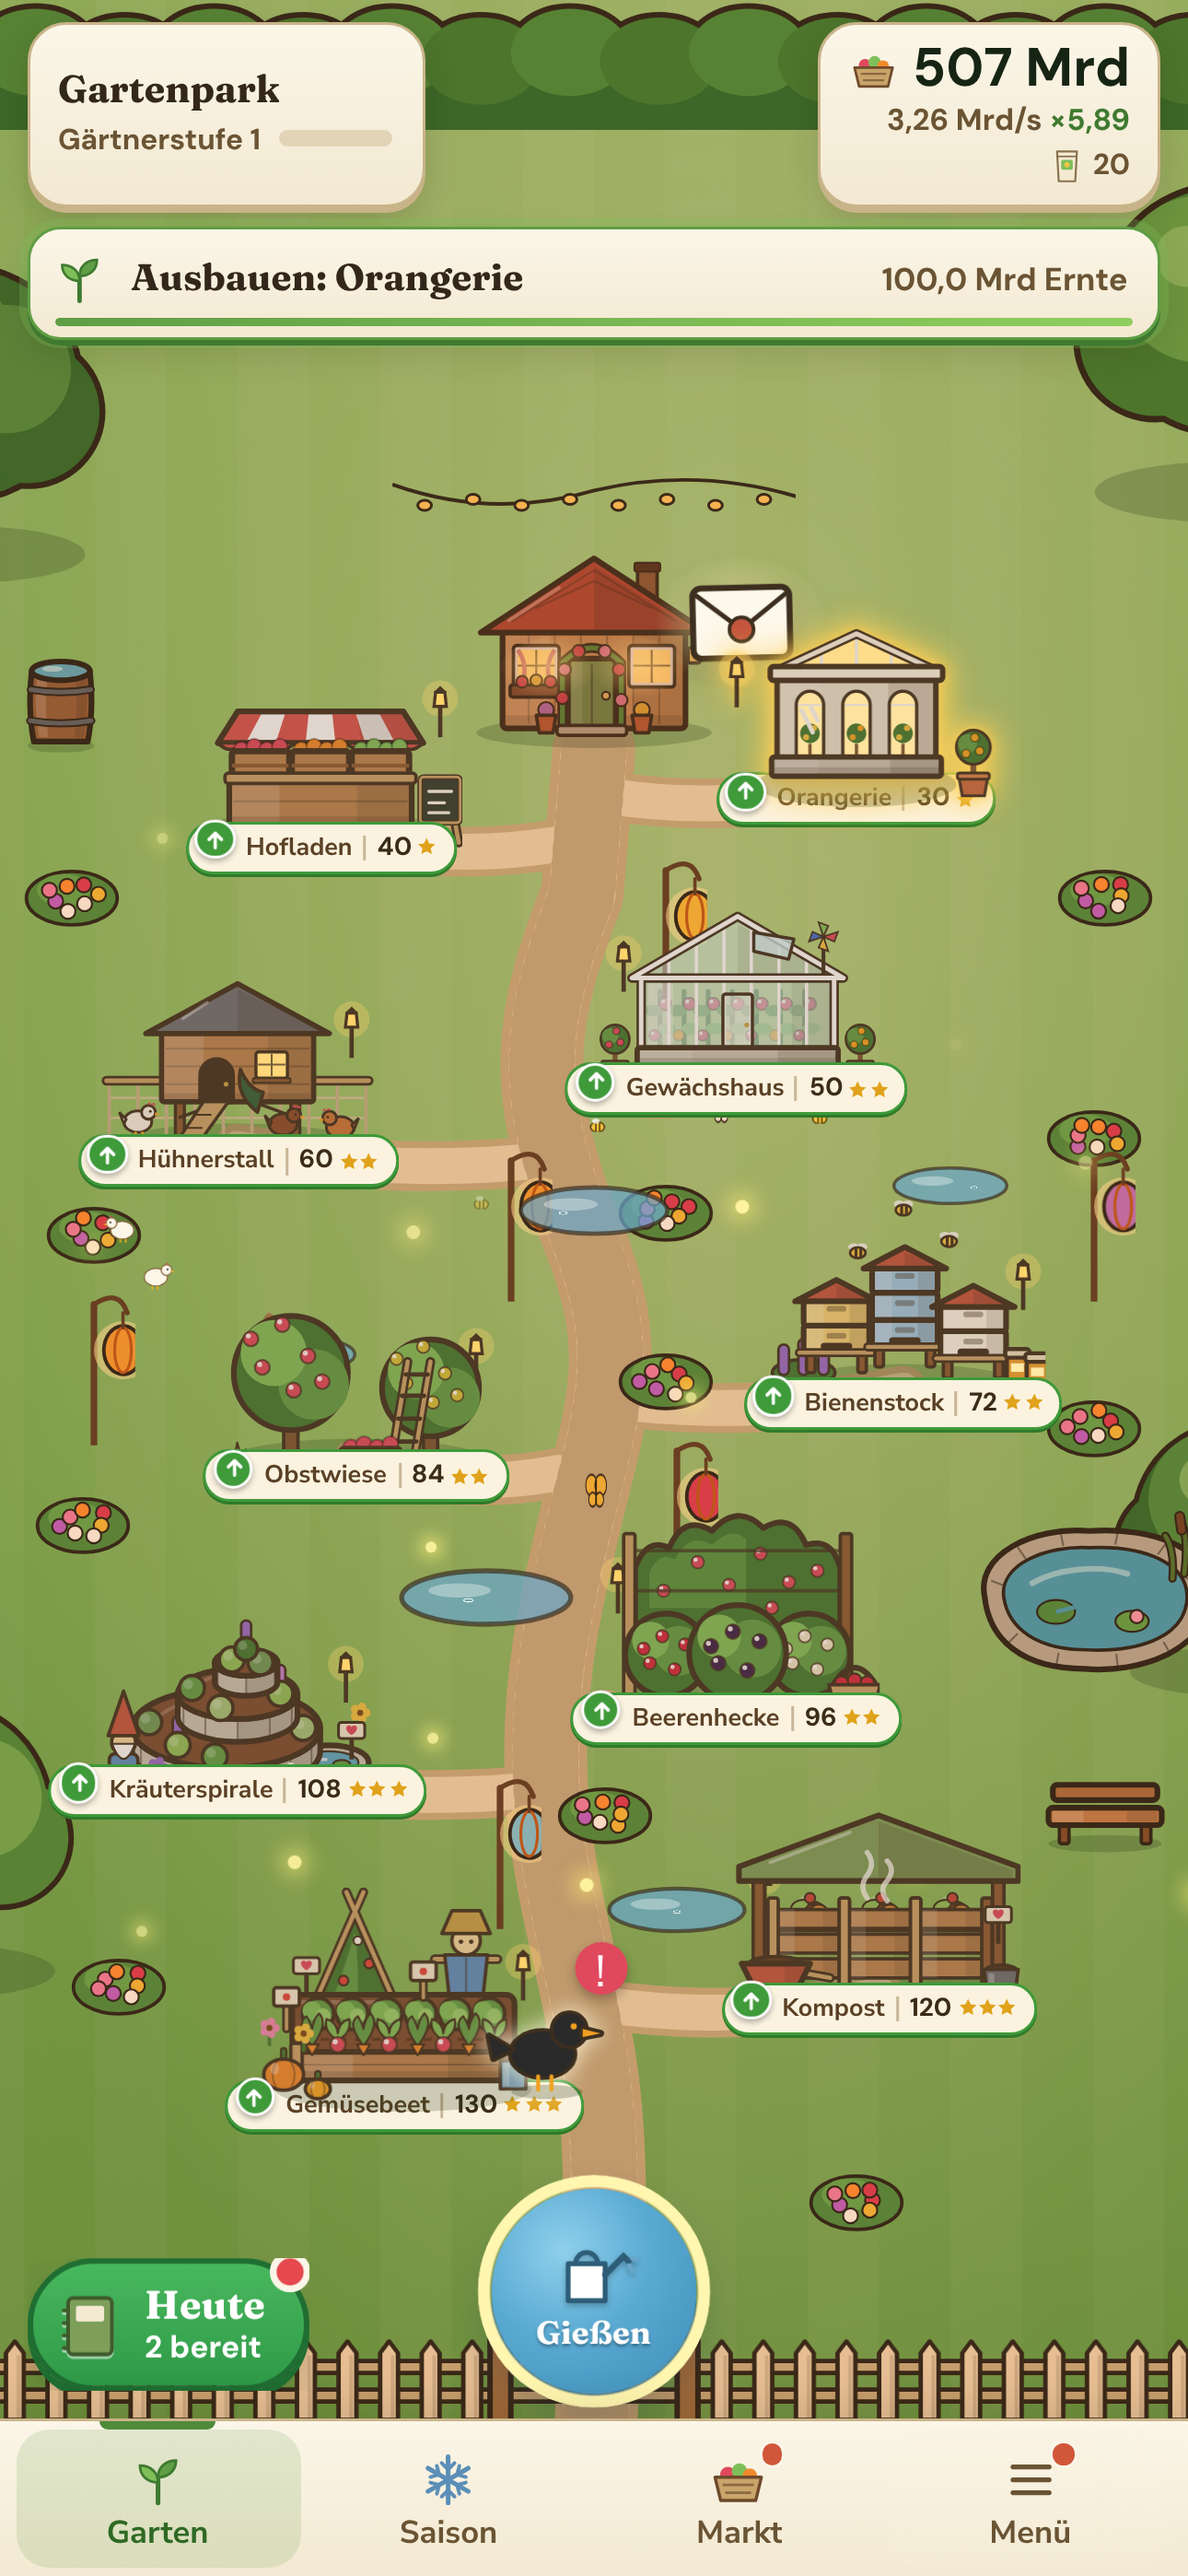
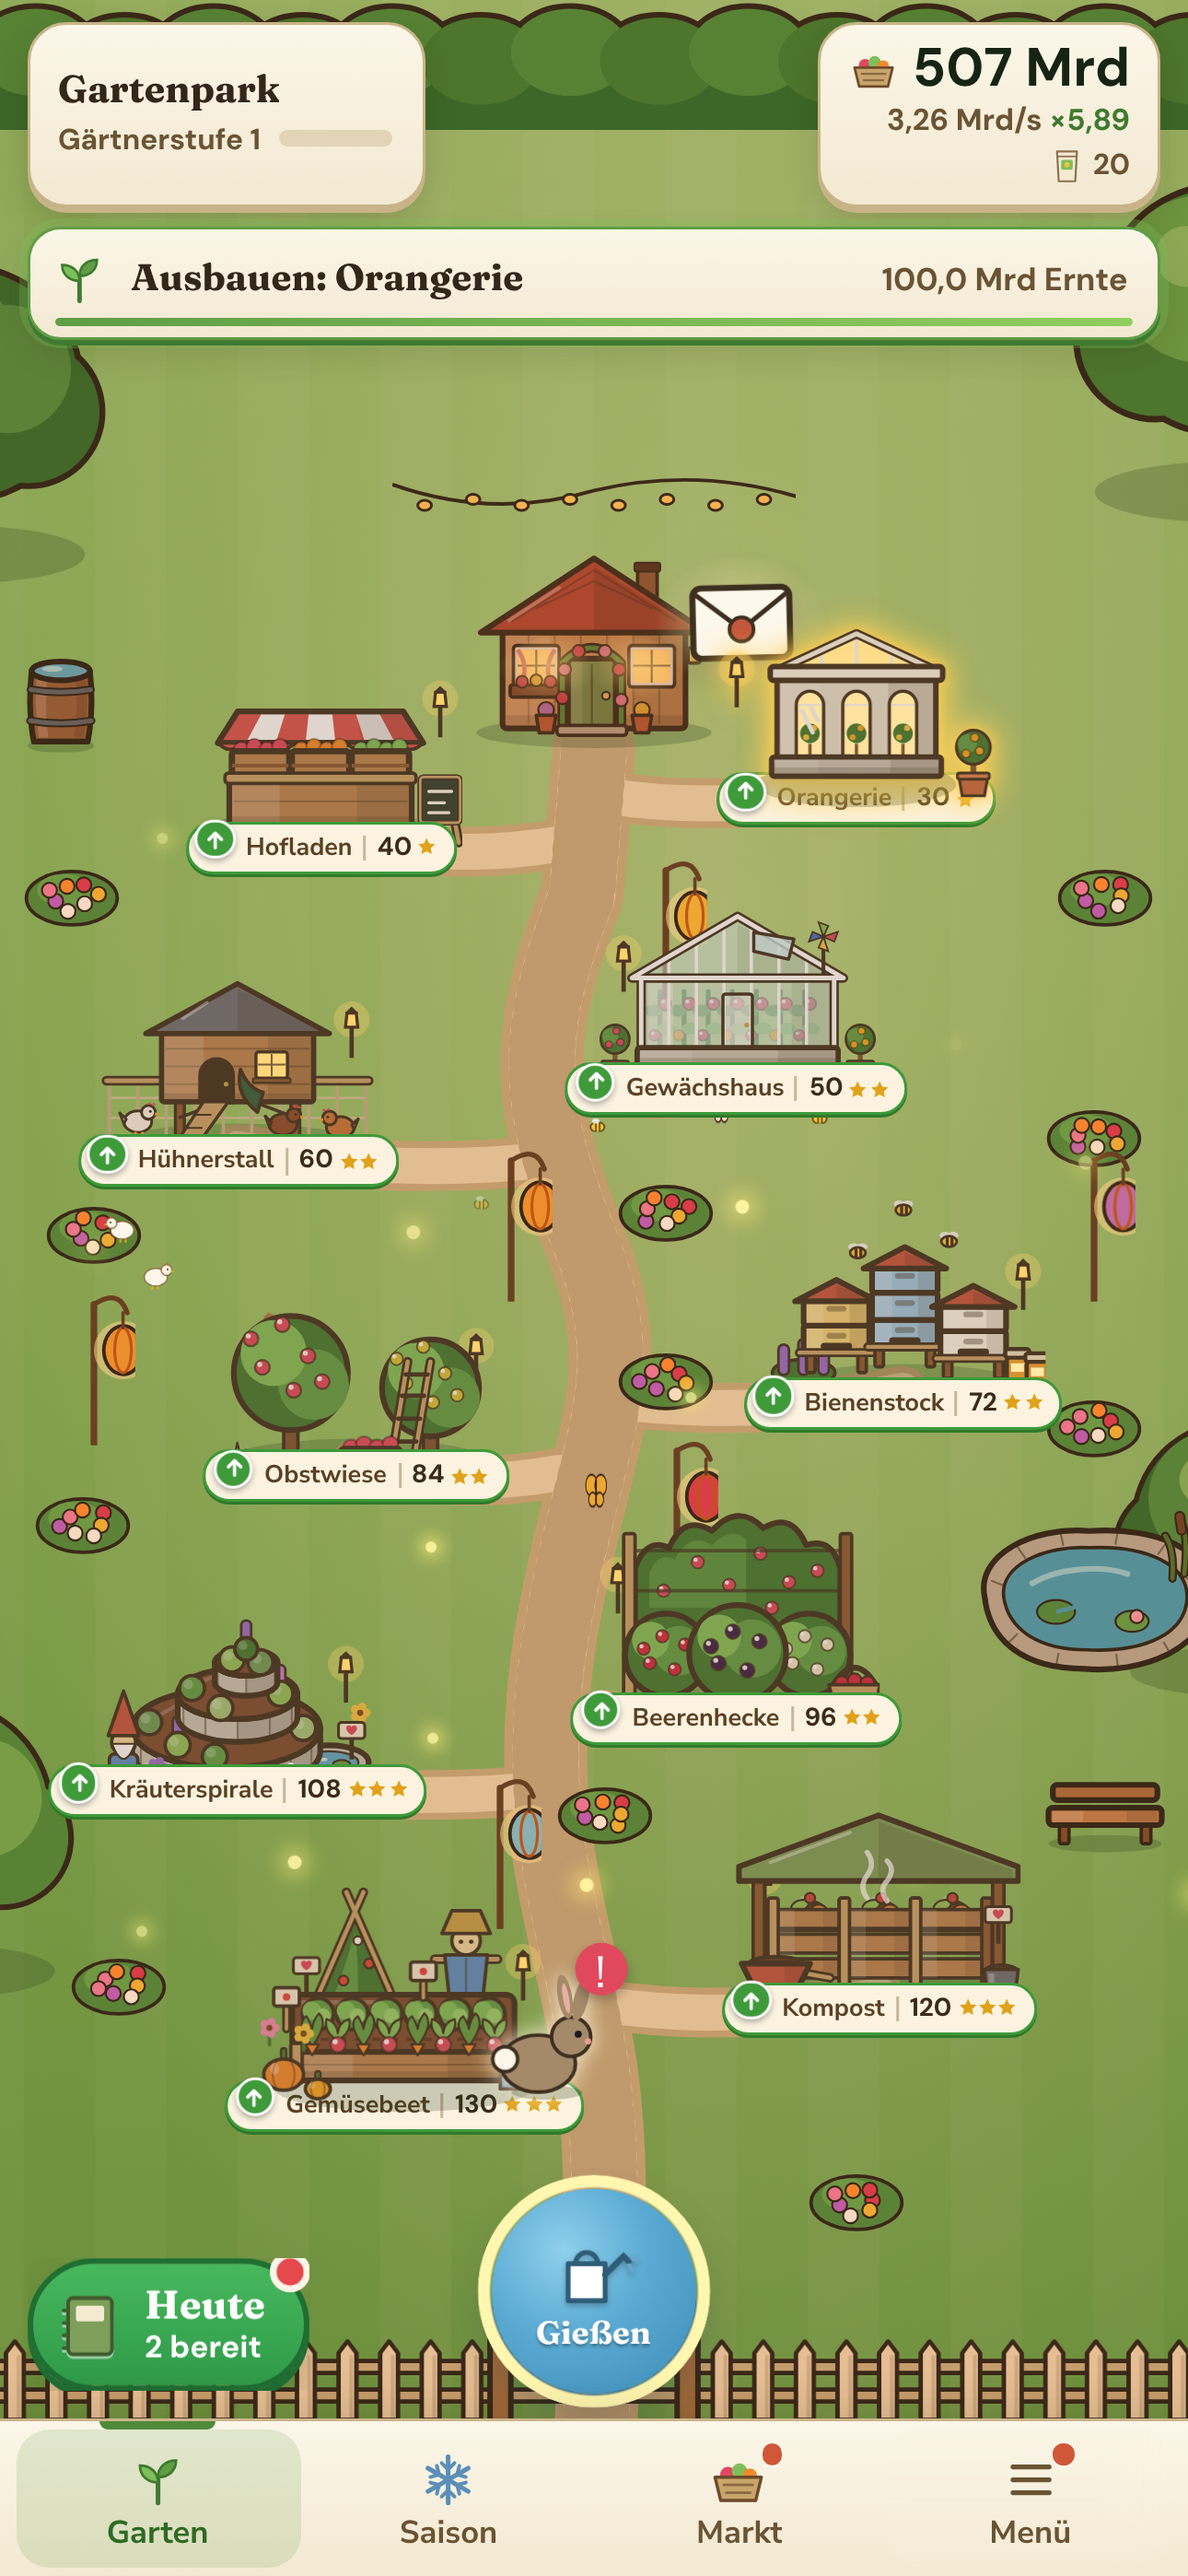
Pfützen in der Bodenebene und auf freien Stellen
Pfützen lagen über Fest-Laternen und Blumeninseln. Sie werden jetzt von der
Kulisse unter aller Deko gezeichnet und liegen auf Stellen, die gegen
Bereiche, Schilder, Blumen, Dekoplätze und die Deko aller neun Feste
ausgemessen sind. Store-Screenshots mit festem Sonnenwetter neu erzeugt.

Claude-Session: https://claude.ai/code/session_01LAeY2eLJgwXNQEEr1JGNmn

diff --git a/src/components/WeatherLayer.tsx b/src/components/WeatherLayer.tsx
@@ -5,17 +5,23 @@ import { ArtSvg } from '../theme/ArtSvg'
 import { P } from '../theme/art/palette'
 
 /**
- * Wetter auf der Karte (nur Darstellung): Pfützen mit Regenringen bei Regen,
- * umgewehte Halme und wirbelnde Blätter bei Wind. Folgt dem Tageswetter
+ * Wetter auf der Karte (nur Darstellung): Pfützen mit Regenringen bei Regen
+ * (`ground`: in der Bodenebene der Kulisse), umgewehte Halme und wirbelnde
+ * Blätter bei Wind (über der Karte). Folgt dem Tageswetter
  * (weatherAt) wie die Wetter-Pille. `?wetter=regen|wind` erzwingt es für Tests
  * (weatherOverride in theme/ambient.ts).
  */
+/**
+ * Pfützen liegen auf freien Stellen: ausgemessen gegen Bereiche mit Schild,
+ * Blumeninseln, Wildbüsche, Dekoplätze, Teich, Bank und die Deko aller neun
+ * Feste. Sie gehören zum Boden (MapBackdrop zeichnet sie unter aller Deko).
+ */
 const PUDDLES = [
-  { left: 50, top: 50, w: 13 },
-  { left: 41, top: 66, w: 15 },
-  { left: 57, top: 79, w: 12 },
-  { left: 25, top: 56, w: 10 },
-  { left: 80, top: 49, w: 10 },
+  { left: 80, top: 37, w: 10 },
+  { left: 54, top: 53, w: 11 },
+  { left: 40, top: 67, w: 11 },
+  { left: 56, top: 87.5, w: 12 },
+  { left: 31.5, top: 90.5, w: 12 },
 ]
 const TUFTS = [
   { left: 12, top: 52 },
@@ -26,11 +32,13 @@ const TUFTS = [
   { left: 36, top: 44 },
 ]
 
-export const WeatherLayer = memo(function WeatherLayer({ weather, season }: { weather: Weather; season: Season }) {
+export const WeatherLayer = memo(function WeatherLayer({ weather, season, ground = false }: { weather: Weather; season: Season; ground?: boolean }) {
   if (weather === 'regen') {
+    // Pfützen zeichnet nur die Bodenebene, sonst lägen sie über Laternen und Beeten
+    if (!ground) return null
     const frozen = season === 'winter'
     return (
-      <div className="weather-layer weather-regen" aria-hidden="true">
+      <div className="weather-layer weather-regen weather-ground" aria-hidden="true">
         {PUDDLES.map((p, i) => (
           <div key={i} className="weather-puddle" style={{ left: `${p.left}%`, top: `${p.top}%`, width: `calc(var(--u) * ${p.w})` }}>
             <ArtSvg viewBox="0 0 40 14">
@@ -43,7 +51,7 @@ export const WeatherLayer = memo(function WeatherLayer({ weather, season }: { we
       </div>
     )
   }
-  if (weather === 'wind') {
+  if (weather === 'wind' && !ground) {
     return (
       <div className="weather-layer weather-wind" aria-hidden="true">
         {TUFTS.map((p, i) => (

diff --git a/src/theme/MapBackdrop.tsx b/src/theme/MapBackdrop.tsx
@@ -14,6 +14,8 @@ import { memo, type CSSProperties, type ReactNode } from 'react'
 import { GENERATORS } from '../game/generators'
 import type { Ambient } from './ambient'
 import type { FestId } from '../game/fests'
+import type { Weather } from '../game/gardenLife'
+import { WeatherLayer } from '../components/WeatherLayer'
 import { FestDecor, FestSkinDecor } from './FestDecor'
 import { useSvgId } from './svgId'
 import { ArtSvg } from './ArtSvg'
@@ -29,6 +31,8 @@ interface Props {
   skin?: string
   /** Running saisonales Fest → map decoration */
   fest?: FestId
+  /** Tageswetter: Pfützen liegen in der Bodenebene, unter aller Deko */
+  weather?: Weather
 }
 
 /**
@@ -569,7 +573,7 @@ function Particles({ ambient }: { ambient: Ambient }) {
 }
 
 /** Memoized: re-renders only when the stage or ambient mood changes. */
-export const MapBackdrop = memo(function MapBackdrop({ stage, ambient, skin, fest }: Props) {
+export const MapBackdrop = memo(function MapBackdrop({ stage, ambient, skin, fest, weather }: Props) {
   const grass = useSvgId('gg-grass')
   const light = useSvgId('gg-light')
   return (
@@ -637,6 +641,8 @@ export const MapBackdrop = memo(function MapBackdrop({ stage, ambient, skin, fes
           />
         </g>
       </ArtSvg>
+
+      {weather ? <WeatherLayer weather={weather} season={ambient.season} ground /> : null}
 
       {/* far edge: hedge behind the HUD, Laube at the end of the path */}
       <div className="garden-hedge">

diff --git a/src/components/GardenMap.tsx b/src/components/GardenMap.tsx
@@ -194,6 +194,7 @@ export function GardenMap({
   }, [])
   const signsAll = useSignsAlways()
   const ambient = useAmbient()
+  const mapWeather = game.features.has('weather') || weatherOverride() ? (weatherOverride() ?? weatherAt(game.nowTick)) : undefined
   const harvest = useHarvestFlight()
   const { seen: seenHints, markSeen } = useHints()
   const [visitorPresent, setVisitorPresent] = useState(false)
@@ -729,10 +730,9 @@ export function GardenMap({
             ambient={ambient}
             skin={skinClass}
             fest={festAt(game.nowTick).id}
+            weather={mapWeather}
           />
-          {game.features.has('weather') || weatherOverride() ? (
-            <WeatherLayer weather={weatherOverride() ?? weatherAt(game.nowTick)} season={ambient.season} />
-          ) : null}
+          {mapWeather ? <WeatherLayer weather={mapWeather} season={ambient.season} /> : null}
           <DecorLayer game={game} season={ambient.season} editing={decorEdit} onDone={() => setDecorEdit(false)} />
           {state.helperLevel > 0 && state.helperOn ? (
             <>

diff --git a/src/theme/polish.css b/src/theme/polish.css
@@ -341,6 +341,11 @@ html.idle .module-art * {
   pointer-events: none;
 }
 
+/* Pfützen in der Bodenebene: kein eigener z-index, damit alle Deko darüber liegt */
+.weather-layer.weather-ground {
+  z-index: auto;
+}
+
 .weather-puddle,
 .weather-tuft,
 .weather-leaf {
